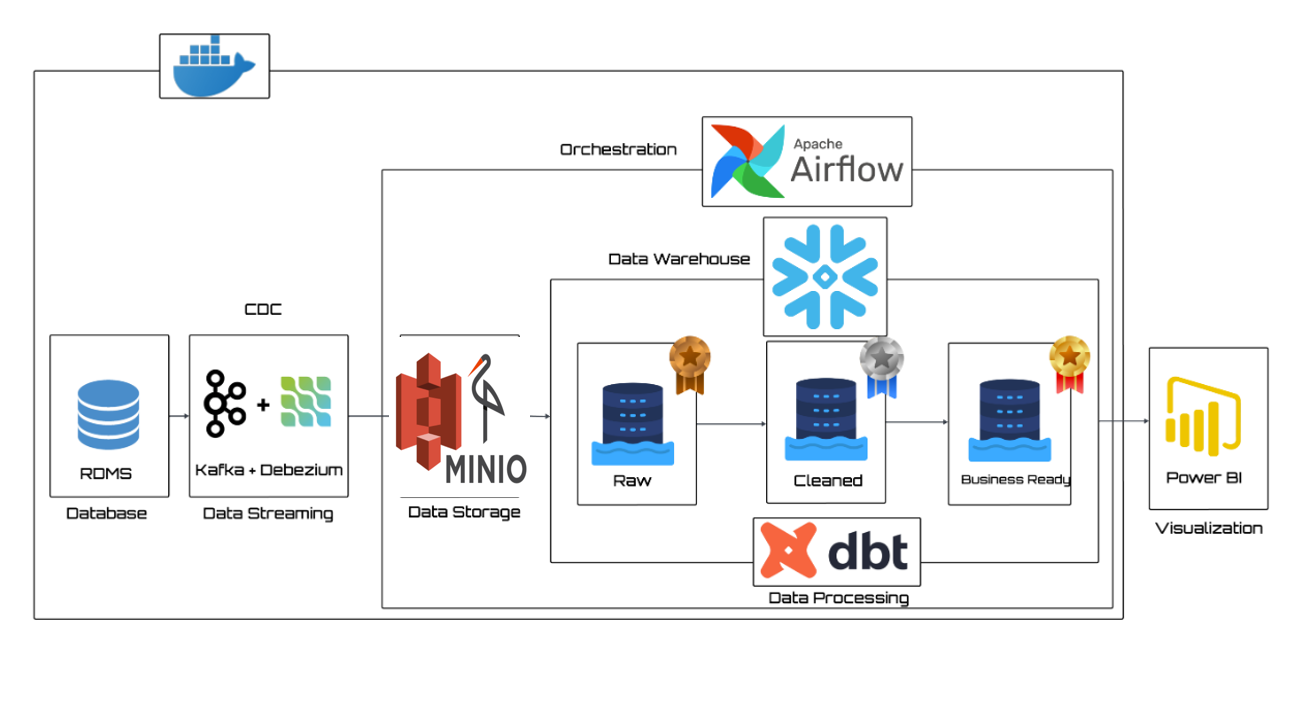
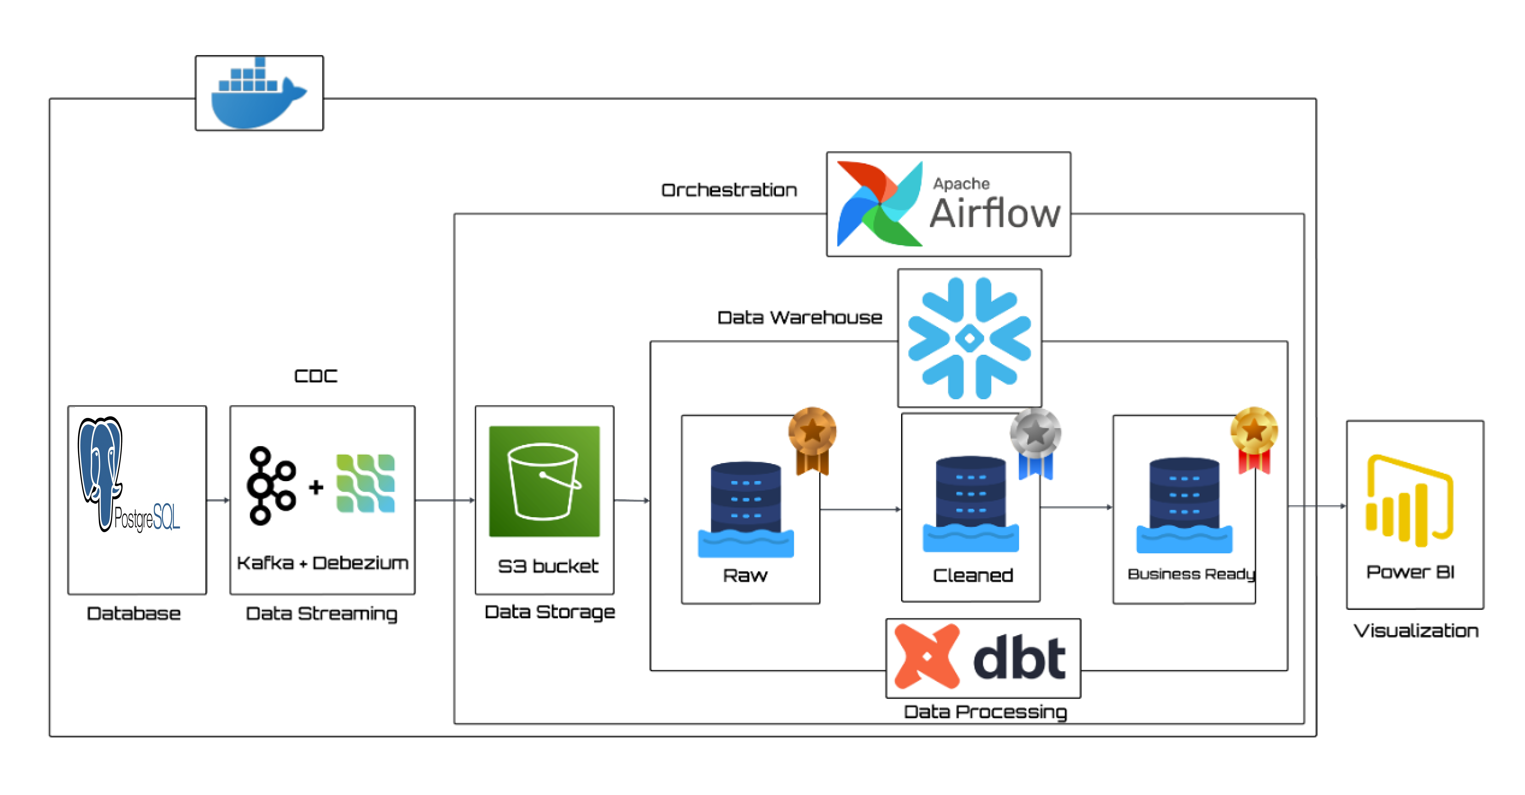
push the project banking analytics

Changed region(s): [[0.0309, 0.156, 0.9892, 0.9362], [0.0309, 0.0312, 0.8655, 0.1872], [0.8964, 0.4681, 0.9892, 0.4993]]

diff --git a/consumer/kafka_to_s3.py b/consumer/kafka_to_s3.py
@@ -6,9 +6,7 @@ from datetime import datetime
 import os
 from dotenv import load_dotenv
 
-# -----------------------------
-# Load secrets from .env
-# -----------------------------
+
 load_dotenv()
 
 # Kafka consumer settings
@@ -23,34 +21,30 @@ consumer = KafkaConsumer(
     value_deserializer=lambda x: json.loads(x.decode('utf-8'))
 )
 
-# MinIO client
+# AWS S3 client
 s3 = boto3.client(
     's3',
-    endpoint_url=os.getenv("MINIO_ENDPOINT"),
-    aws_access_key_id=os.getenv("MINIO_ACCESS_KEY"),
-    aws_secret_access_key=os.getenv("MINIO_SECRET_KEY")
+    aws_access_key_id=os.getenv("AWS_ACCESS_KEY_ID"),
+    aws_secret_access_key=os.getenv("AWS_SECRET_ACCESS_KEY"),
 )
 
-bucket = os.getenv("MINIO_BUCKET")
+bucket = os.getenv("S3_BUCKET_NAME")
 
-# Create bucket if not exists
-if bucket not in [b['Name'] for b in s3.list_buckets()['Buckets']]:
-    s3.create_bucket(Bucket=bucket)
-
-# Consume and write function
-def write_to_minio(table_name, records):
+# Upload function
+def write_to_s3(table_name, records):
     if not records:
         return
     df = pd.DataFrame(records)
-    date_str = datetime.now().strftime('%Y-%m-%d')
-    file_path = f'{table_name}_{date_str}.parquet'
+    file_path = f'{table_name}.parquet'
     df.to_parquet(file_path, engine='fastparquet', index=False)
-    s3_key = f'{table_name}/date={date_str}/{table_name}_{datetime.now().strftime("%H%M%S%f")}.parquet'
+
+    
+    s3_key = f'{table_name}/{table_name}_{datetime.now().strftime("%Y%m%d_%H%M%S%f")}.parquet'
     s3.upload_file(file_path, bucket, s3_key)
     os.remove(file_path)
-    print(f'✅ Uploaded {len(records)} records to s3://{bucket}/{s3_key}')
+    print(f'Uploaded {len(records)} records to s3://{bucket}/{s3_key}')
 
-# Batch consume
+# Consume and buffer messages
 batch_size = 50
 buffer = {
     'banking_server.public.customers': [],
@@ -59,17 +53,21 @@ buffer = {
 }
 
 print("✅ Connected to Kafka. Listening for messages...")
+print("📡 Subscribed topics:", consumer.subscription())
 
 for message in consumer:
     topic = message.topic
     event = message.value
-    payload = event.get("payload", {})
-    record = payload.get("after")  # Only take the actual row
+    payload = event.get("payload")
 
+    if not payload:
+        continue  
+
+    record = payload.get("after")
     if record:
         buffer[topic].append(record)
-        print(f"[{topic}] -> {record}")  # Debugging
+        print(f"[{topic}] +1 record")
 
     if len(buffer[topic]) >= batch_size:
-        write_to_minio(topic.split('.')[-1], buffer[topic])
+        write_to_s3(topic.split('.')[-1], buffer[topic])
         buffer[topic] = []

diff --git a/kafka-debezium/generate_and_post_connector.py b/kafka-debezium/generate_and_post_connector.py
@@ -3,9 +3,7 @@ import json
 import requests
 from dotenv import load_dotenv
 
-# -----------------------------
-# Load environment variables
-# -----------------------------
+
 load_dotenv()
 
 # -----------------------------
@@ -42,8 +40,8 @@ response = requests.post(url, headers=headers, data=json.dumps(connector_config)
 # Debug/Output
 # -----------------------------
 if response.status_code == 201:
-    print("✅ Connector created successfully!")
+    print("Connector created successfully!")
 elif response.status_code == 409:
-    print("⚠ Connector already exists.")
+    print("Connector already exists.")
 else:
-    print(f"❌ Failed to create connector ({response.status_code}): {response.text}")
+    print(f"Failed to create connector ({response.status_code}): {response.text}")

diff --git a/README.md b/README.md
@@ -17,7 +17,7 @@
 📌 Présentation du projet
 
 Ce projet illustre une pipeline de données moderne de bout en bout appliquée au secteur bancaire.
-Il simule des données de clients, de comptes et de transactions, diffuse les changements en temps réel, transforme ces données en modèles prêts pour l’analyse, et visualise les résultats — en suivant les bonnes pratiques de CI/CD et de data warehousing.
+Il simule des données de clients, de comptes et de transactions, diffuse les changements en temps réel, transforme ces données en modèles prêts pour l’analyse, et visualise les résultats — en suivant les bonnes pratiques de data warehousing.
 
 👉 En résumé, c’est un écosystème de données bancaires complet construit avec des outils modernes.
 
@@ -30,15 +30,19 @@ Flux de la pipeline :
 
 Générateur de données → Simule les transactions, comptes et clients bancaires (via Faker).
 
-Kafka + Debezium → Diffuse les changements en temps réel (CDC) vers MinIO (stockage compatible S3).
+Kafka + Debezium → Diffuse les changements en temps réel (CDC) vers(Amazon S3).
 
-Airflow → Orchestre l’ingestion et les snapshots vers Snowflake.
+Snowpipe → Ingestion automatique de S3 vers Snowflake
 
 Snowflake → Entrepôt de données Cloud (Bronze → Silver → Gold).
+
+Airflow →  les snapshots vers Snowflake.
 
 DBT → Effectue les transformations et construit les marts & snapshots (SCD Type-2).
 
 Power BI →  Création du Dashboard
+
+Dokcer → Conténerisation
 
 ⚡ Stack technologique
 
@@ -50,7 +54,7 @@ Apache Airflow → Orchestration & planification de DAGs
 
 Apache Kafka + Debezium → Streaming temps réel & CDC
 
-MinIO → Stockage d’objets compatible S3
+Amazon S3 → Data lake
 
 PostgreSQL → Base de données source (OLTP)
 
@@ -68,6 +72,8 @@ Système bancaire simulé : clients, comptes et opérations bancaires
 
 Capture de changement de données (CDC) via Kafka + Debezium (lecture du WAL de Postgres)
 
+Ingestion automatique depuis s3 vers snowflake via snowpipe
+
 Modèles DBT : Raw → Staging → Faits & Dimensions
 
 Snapshots : suivi historique des données (slowly changing dimensions)
@@ -75,81 +81,15 @@ Snapshots : suivi historique des données (slowly changing dimensions)
 Orchestration automatique avec Airflow
 
 
-
-📂 Structure du dépôt
-banking-modern-datastack/
-         
-├── banking_dbt/              # Projet DBT
-│   ├── models/
-│   │   ├── staging/           # Modèles de staging
-│   │   ├── marts/             # Tables de faits & dimensions
-│   │   └── sources.yml
-│   ├── snapshots/             # Snapshots SCD2
-│   └── dbt_project.yml
-├── consumer
-│   └── kafka_to_minio.py
-├── data-generator/            # Générateur de données avec Faker
-│   └── faker_generator.py
-├── docker/                    # DAGs Airflow, plugins, etc.
-│   ├── dags/                  # DAGs (minio_to_snowflake, scd_snapshots)
-├── kafka-debezium/            # Connecteurs Kafka & logique CDC
-│   └── generate_and_post_connector.py
-├── postgres/                  # Schéma Postgres (DDL & seeds)
-│   └── schema.sql
-├── .gitignore
-├── docker-compose.yml         # Infrastructure containerisée
-├── dockerfile-airflow.dockerfile
-├── requirements.txt
-└── README.md
-
-⚙ Mise en œuvre étape par étape
-1. Simulation des données
-
-Génération de données bancaires synthétiques (clients, comptes, transactions) avec Faker.
-
-Insertion dans PostgreSQL (OLTP) pour simuler un vrai système transactionnel (ACID, contraintes).
-
-Configuration via config.yaml.
-
-2. Kafka + Debezium (CDC)
-
-Configuration de Kafka Connect & Debezium pour capturer les changements dans Postgres.
-
-Diffusion des événements CDC vers MinIO.
-
-3. Orchestration avec Airflow
-
-Création de DAGs pour :
-
-Ingestion MinIO → Snowflake (Bronze).
-
-Planification des snapshots & chargements incrémentaux.
-
-4. Entrepôt de données Snowflake
-
-Organisation en couches Bronze → Silver → Gold.
-
-Création de schémas de staging pour l’ingestion initiale.
-
-5. Transformations DBT
-
-Modèles de staging → nettoyage et normalisation des sources.
-
-Modèles de faits et dimensions → création des marts.
-
-Snapshots → suivi historique des clients et comptes.
-
-6. Création du Dashboard avec Power BI
-
 📊 Livrables finaux
+
+Jeu de données bancaires synthétiques pour démonstration
 
 Pipeline CDC automatisée de Postgres → Snowflake
 
 Modèles DBT (faits, dimensions, snapshots)
 
 DAGs Airflow orchestrés
-
-Jeu de données bancaires synthétiques pour démonstration
 
 Dashboard Power BI pour le suivi en temps réel des données bancaires
 

diff --git a/banking_dbt/README.md b/banking_dbt/README.md
@@ -1,0 +1,15 @@
+Welcome to your new dbt project!
+
+### Using the starter project
+
+Try running the following commands:
+- dbt run
+- dbt test
+
+
+### Resources:
+- Learn more about dbt [in the docs](https://docs.getdbt.com/docs/introduction)
+- Check out [Discourse](https://discourse.getdbt.com/) for commonly asked questions and answers
+- Join the [chat](https://community.getdbt.com/) on Slack for live discussions and support
+- Find [dbt events](https://events.getdbt.com) near you
+- Check out [the blog](https://blog.getdbt.com/) for the latest news on dbt's development and best practices
